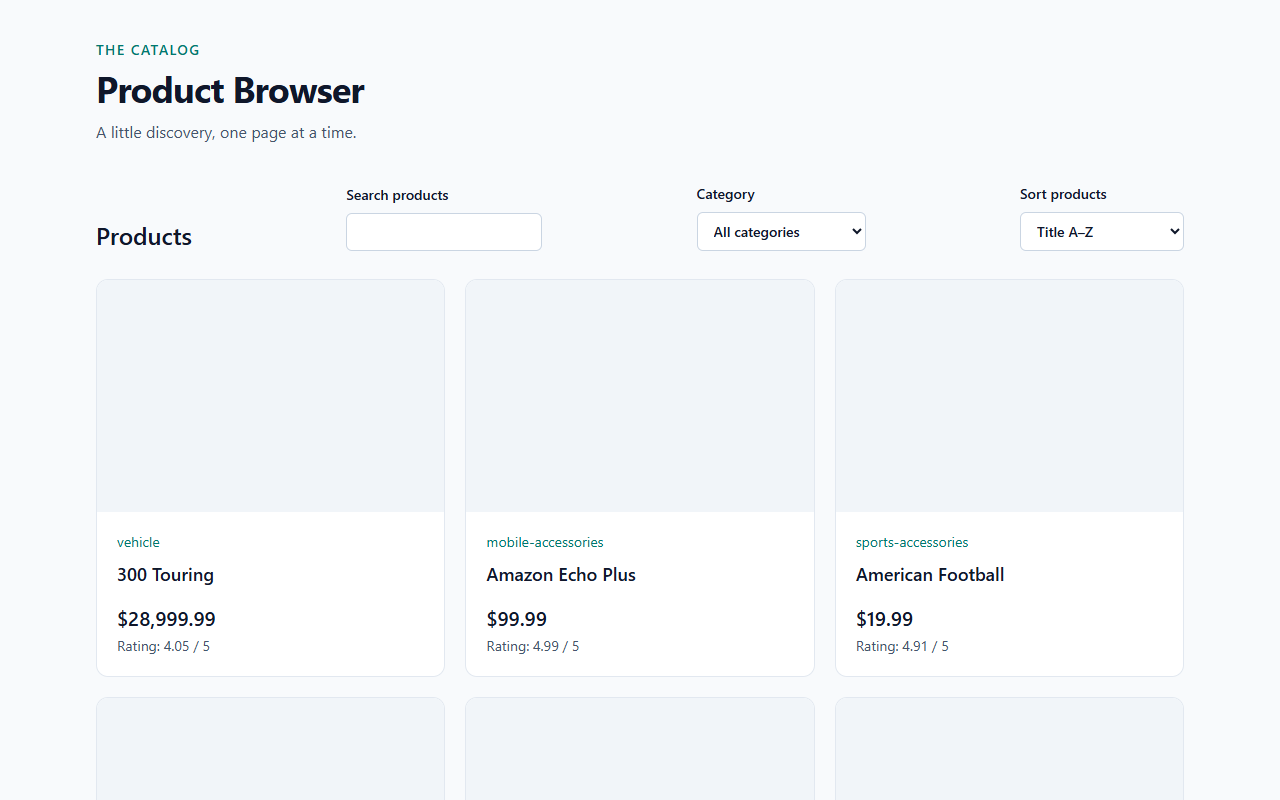
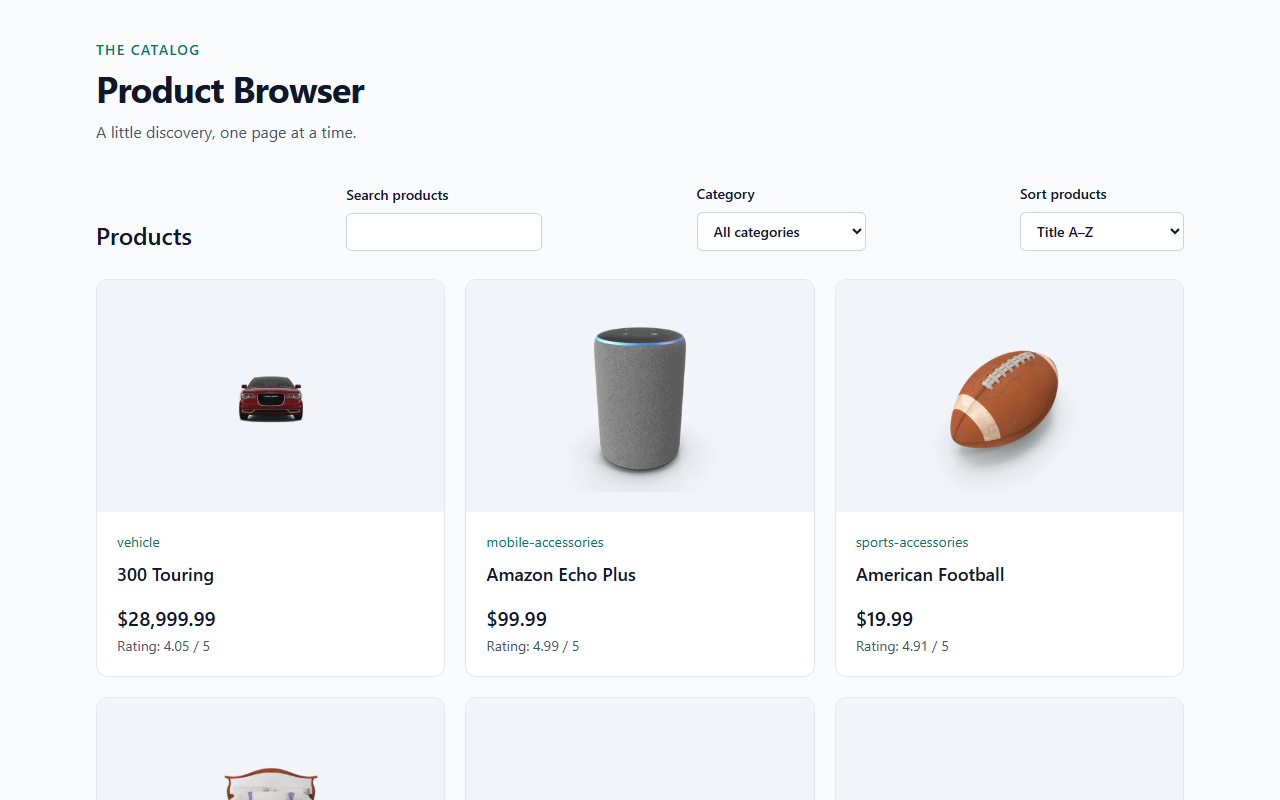
Record issue #6 review and completed image captures

diff --git a/VERIFICATION.md b/VERIFICATION.md
@@ -216,3 +216,10 @@ verification-harness issues (assuming local title collation and native select
 Enter behavior) were corrected; no app change was indicated. Visual inspection
 is based on screenshots and keyboard automation; no physical-device or
 screen-reader audit was performed.
+
+## Review
+
+Independent reviewers compared the work with starting commit `7837e44`.
+Standards: no documented violations or optional smell suggestions. Spec: no
+actionable findings; the reviewers accepted the disclosed screenshot inspection
+and keyboard automation method. Totals: **Standards 0; Spec 0**.
